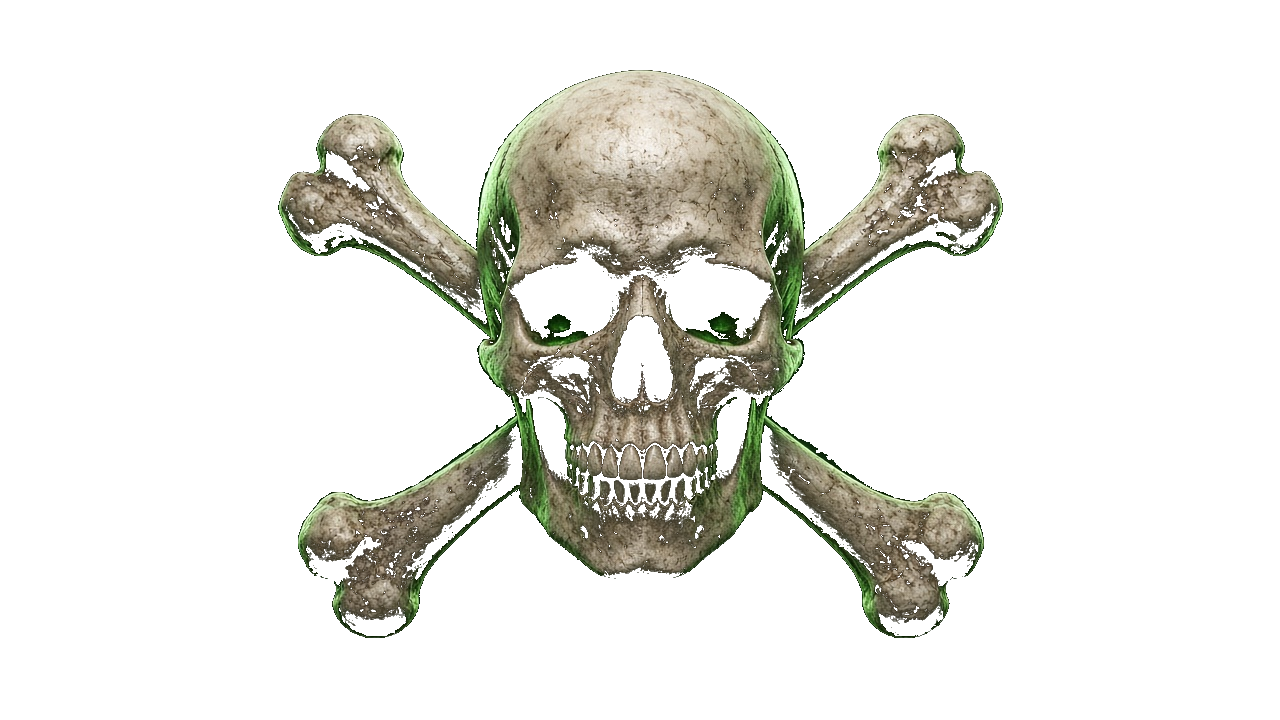
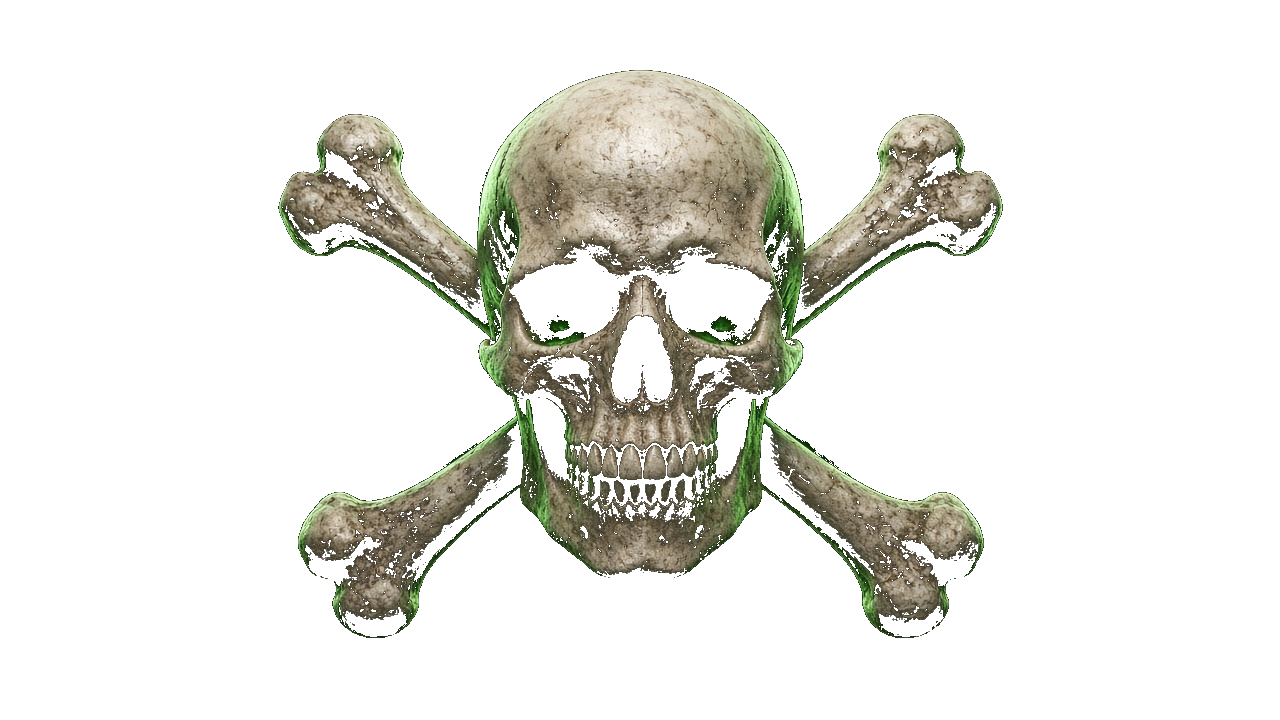
Scrub remaining black flag from nuke skull PNG

diff --git a/src/components/MushroomCloud.tsx b/src/components/MushroomCloud.tsx
@@ -607,7 +607,7 @@ export function MushroomCloud({ active, onDone }: Props) {
       <div className="nuke-skull-wrap" data-testid="nuke-skull">
         <img
           className="nuke-skull"
-          src="/assets/vfx/skull-crossbones.png?v=3"
+          src="/assets/vfx/skull-crossbones.png?v=4"
           alt=""
           draggable={false}
         />

diff --git a/src/App.css b/src/App.css
@@ -3065,6 +3065,7 @@ input[type='search'] {
 }
 .nuke-skull-wrap {
   position: absolute;
+  background: transparent;
   /* Above the particle canvas so the skull actually reads */
   z-index: 4;
   left: 50%;
